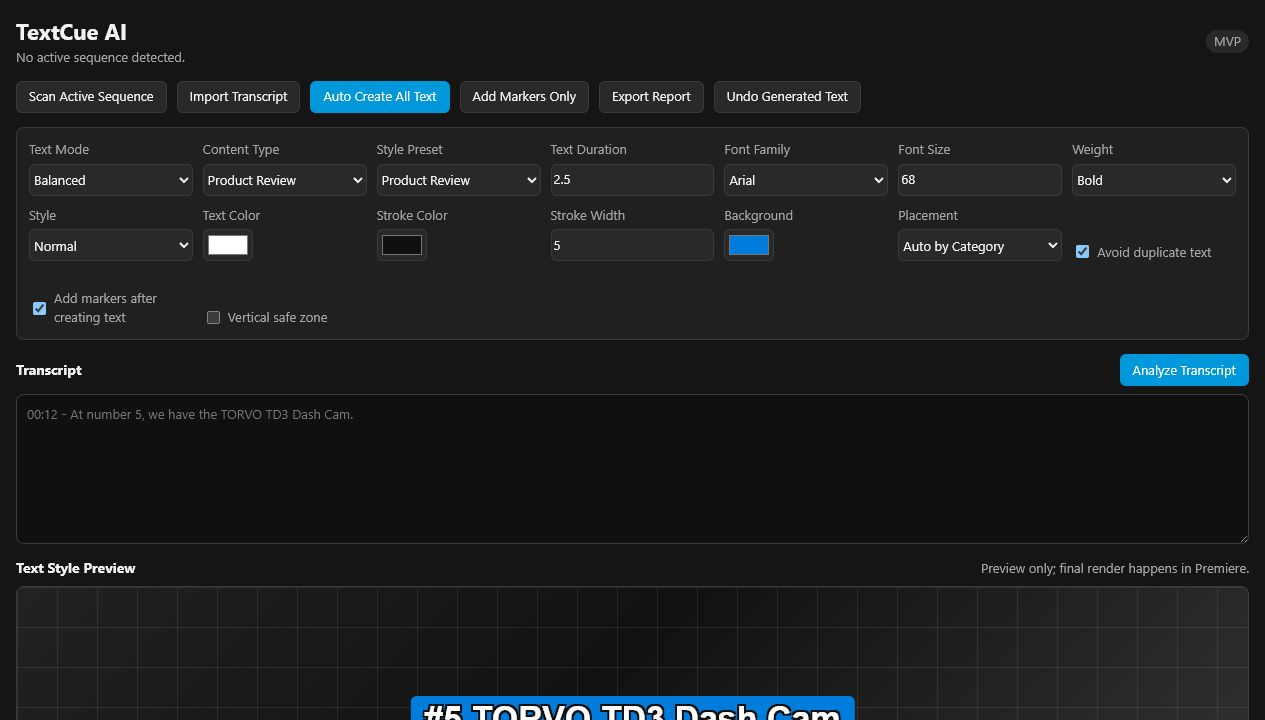
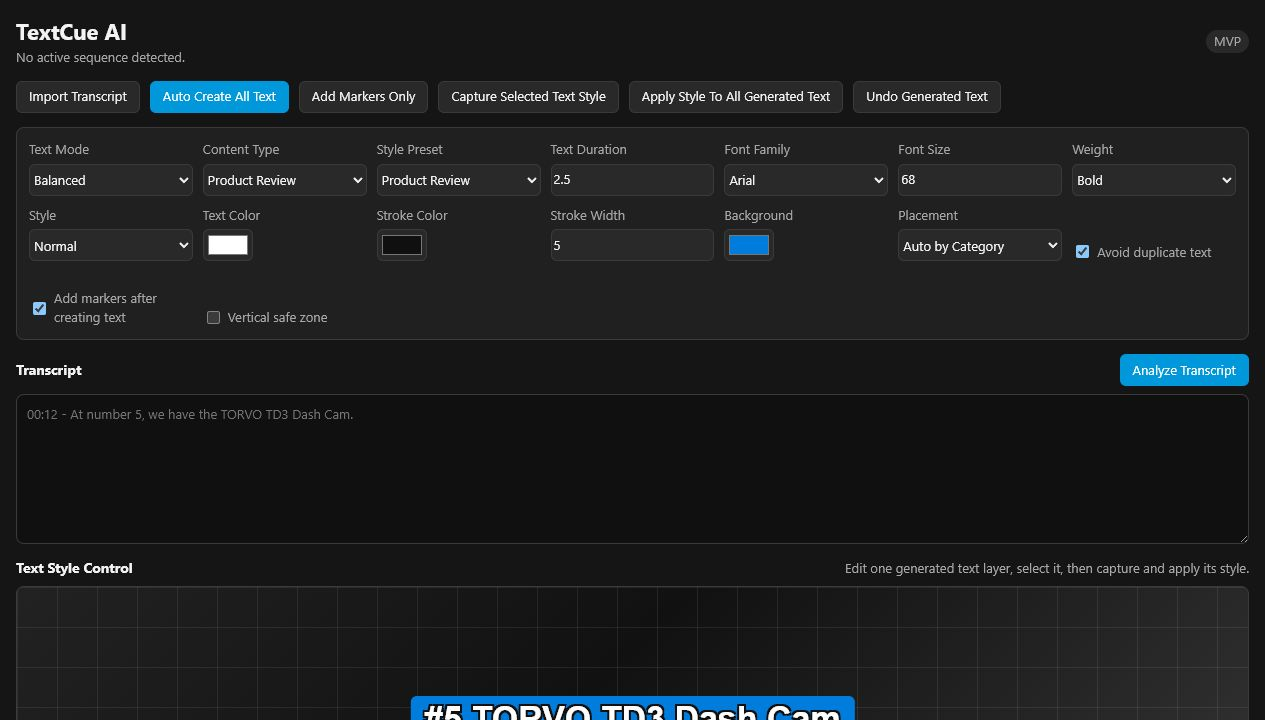
Replace scan and report with style sync actions

Changed region(s): [[0.0308, 0.0917, 0.8016, 0.1833], [0.6783, 0.7639, 0.9866, 0.7944], [0.0617, 0.7639, 0.1233, 0.7944]]

diff --git a/Source-Code/textcue-ai/src/main.js b/Source-Code/textcue-ai/src/main.js
@@ -1,6 +1,5 @@
 import { detectImportantPhrases } from "./detector.js";
 import { createPremiereAdapter } from "./premiere.js";
-import { buildReport, exportTextFile } from "./reportExporter.js";
 import { readSettingsFromDom } from "./settings.js";
 import { markCoveredCues } from "./timelineScanner.js";
 import { parseTranscript } from "./transcriptParser.js";
@@ -8,6 +7,7 @@ import { checkForUpdate } from "./updateChecker.js";
 
 let cues = [];
 let generatedTextLayerIds = [];
+let capturedTextStyle = null;
 let premiere = null;
 
 const elements = {};
@@ -52,11 +52,11 @@ function initializePanel() {
 
   for (const id of [
     "sequenceStatus",
-    "scanSequenceBtn",
     "importTranscriptBtn",
     "autoCreateBtn",
     "markersOnlyBtn",
-    "exportReportBtn",
+    "captureStyleBtn",
+    "applyStyleAllBtn",
     "undoBtn",
     "analyzeTranscriptBtn",
     "transcriptInput",
@@ -64,6 +64,7 @@ function initializePanel() {
     "resultsBody",
     "resultSummary",
     "messageBar",
+    "capturedStyleStatus",
     "updateBar",
     "updateMessage",
     "updateLink"
@@ -71,13 +72,13 @@ function initializePanel() {
     elements[id] = document.getElementById(id);
   }
 
-  elements.scanSequenceBtn.addEventListener("click", handleScanSequence);
   elements.importTranscriptBtn.addEventListener("click", () => elements.fileInput.click());
   elements.fileInput.addEventListener("change", handleTranscriptImport);
   elements.analyzeTranscriptBtn.addEventListener("click", handleAnalyzeTranscript);
   elements.autoCreateBtn.addEventListener("click", handleAutoCreateAll);
   elements.markersOnlyBtn.addEventListener("click", handleMarkersOnly);
-  elements.exportReportBtn.addEventListener("click", handleExportReport);
+  elements.captureStyleBtn.addEventListener("click", handleCaptureSelectedStyle);
+  elements.applyStyleAllBtn.addEventListener("click", handleApplyStyleToAllGeneratedText);
   elements.undoBtn.addEventListener("click", handleUndoGeneratedText);
   bindStylePreview();
 
@@ -172,26 +173,6 @@ async function refreshSequenceStatus() {
   elements.sequenceStatus.textContent = sequence ? `Active sequence: ${sequence.name || "Untitled"}` : "No active sequence detected.";
 }
 
-async function handleScanSequence() {
-  try {
-    const sequence = await premiere.getActiveSequence();
-    if (!sequence) {
-      setMessage("No active sequence is open. Open a sequence in Premiere Pro first.", "error");
-      await refreshSequenceStatus();
-      return;
-    }
-
-    await refreshSequenceStatus();
-    if (cues.length > 0) {
-      cues = await markCoveredCues(cues, premiere, readSettingsFromDom());
-      renderResults();
-    }
-    setMessage("Active sequence scanned.");
-  } catch (error) {
-    showError(error);
-  }
-}
-
 async function handleTranscriptImport(event) {
   const file = event.target.files?.[0];
   if (!file) {
@@ -255,12 +236,33 @@ async function handleMarkersOnly() {
   });
 }
 
-async function handleExportReport() {
+async function handleCaptureSelectedStyle() {
   try {
-    const sequence = await premiere.getActiveSequence();
-    const report = buildReport(cues, readSettingsFromDom(), sequence?.name || "Active Sequence");
-    await exportTextFile("textcue-ai-report.txt", report);
-    setMessage("Report exported.");
+    capturedTextStyle = await premiere.getSelectedTextLayerStyle();
+    applyCapturedStyleToControls(capturedTextStyle);
+    updateStylePreview();
+    elements.capturedStyleStatus.textContent = "Captured selected text style. You can now apply it to all generated text.";
+    setMessage("Captured style from selected text layer.");
+  } catch (error) {
+    showError(error);
+  }
+}
+
+async function handleApplyStyleToAllGeneratedText() {
+  const createdCueIds = cues.filter((cue) => cue.textLayerId && cue.status === "Created").map((cue) => cue.textLayerId);
+  if (createdCueIds.length === 0) {
+    setMessage("No generated text layers found in this session.", "error");
+    return;
+  }
+
+  const style = capturedTextStyle || buildStyleFromCurrentControls();
+  try {
+    let updated = 0;
+    for (const textLayerId of createdCueIds) {
+      await premiere.applyTextLayerStyle(textLayerId, style);
+      updated += 1;
+    }
+    setMessage(`Applied style to ${updated} generated text layer(s).`);
   } catch (error) {
     showError(error);
   }
@@ -315,10 +317,10 @@ async function createTextForCue(cue, settings) {
   }
 
   const textLayerId = await premiere.createTextLayer(cue, settings);
-    cue.textLayerId = textLayerId;
-    cue.status = "Created";
-    generatedTextLayerIds.push(textLayerId);
-    document.getElementById("textPreview").textContent = cue.suggestedText;
+  cue.textLayerId = textLayerId;
+  cue.status = "Created";
+  generatedTextLayerIds.push(textLayerId);
+  document.getElementById("textPreview").textContent = cue.suggestedText;
 
   if (settings.addMarkersAfterText) {
     cue.markerId = await premiere.addMarker(cue, "done");
@@ -405,6 +407,41 @@ function handleCueIgnore(cue) {
   cue.ignored = true;
   renderResults();
   setMessage(`Ignored cue: ${cue.suggestedText}`);
+}
+
+function buildStyleFromCurrentControls() {
+  const settings = readSettingsFromDom();
+  return {
+    fontFamily: settings.fontFamily,
+    fontSize: settings.fontSize,
+    fontWeight: settings.fontWeight,
+    fontStyle: settings.fontStyle,
+    fillColor: settings.fillColor,
+    strokeColor: settings.strokeColor,
+    strokeWidth: settings.strokeWidth,
+    backgroundColor: settings.backgroundColor,
+    placement: settings.placement
+  };
+}
+
+function applyCapturedStyleToControls(style) {
+  setControlValue("fontFamily", style.fontFamily);
+  setControlValue("fontSize", style.fontSize);
+  setControlValue("fontWeight", style.fontWeight);
+  setControlValue("fontStyle", style.fontStyle);
+  setControlValue("fillColor", style.fillColor);
+  setControlValue("strokeColor", style.strokeColor);
+  setControlValue("strokeWidth", style.strokeWidth);
+  setControlValue("backgroundColor", style.backgroundColor);
+  setControlValue("placement", style.placement);
+}
+
+function setControlValue(id, value) {
+  const control = document.getElementById(id);
+  if (!control || value === undefined || value === null || value === "") {
+    return;
+  }
+  control.value = String(value);
 }
 
 function countByStatus(items) {

diff --git a/Source-Code/textcue-ai/src/premiere.js b/Source-Code/textcue-ai/src/premiere.js
@@ -167,6 +167,48 @@ export function createPremiereAdapter() {
       }
       console.info(`Undo requested for generated text layer ${textLayerId}.`);
       return false;
+    },
+
+    async getSelectedTextLayerStyle() {
+      const sequence = await this.getActiveSequence();
+      if (!sequence) {
+        throw new Error("No active sequence is open.");
+      }
+
+      // TODO: Wire this to the installed Premiere Pro UXP API for reading the selected Graphic/Text component.
+      // Expected return shape:
+      // { fontFamily, fontSize, fontWeight, fontStyle, fillColor, strokeColor, strokeWidth, backgroundColor, placement }
+      if (sequence.getSelectedTextLayerStyle) {
+        return sequence.getSelectedTextLayerStyle();
+      }
+
+      if (sequence.getSelection) {
+        const selection = await sequence.getSelection();
+        const selectedItem = Array.isArray(selection) ? selection[0] : selection?.[0] || selection;
+        if (selectedItem?.getTextStyle) {
+          return selectedItem.getTextStyle();
+        }
+      }
+
+      throw new Error("Selected text style reading is not available in this Premiere UXP build. Wire the TODO in src/premiere.js.");
+    },
+
+    async applyTextLayerStyle(textLayerId, style) {
+      const sequence = await this.getActiveSequence();
+      if (!sequence) {
+        throw new Error("No active sequence is open.");
+      }
+
+      // TODO: Wire this to the installed Premiere Pro UXP API for applying style to generated Graphic/Text layers.
+      if (sequence.applyTextLayerStyle) {
+        return sequence.applyTextLayerStyle(textLayerId, style);
+      }
+      if (sequence.updateTextLayerStyle) {
+        return sequence.updateTextLayerStyle(textLayerId, style);
+      }
+
+      console.info("Apply style requested:", { textLayerId, style });
+      throw new Error("Applying style to generated text layers is not available in this Premiere UXP build. Wire the TODO in src/premiere.js.");
     }
   };
 }

diff --git a/Source-Code/textcue-ai/index.html b/Source-Code/textcue-ai/index.html
@@ -11,17 +11,17 @@
       <header class="panel-header">
         <div>
           <h1>TextCue AI</h1>
-          <p id="sequenceStatus">Open a Premiere sequence, then scan.</p>
+          <p id="sequenceStatus">Open a Premiere sequence, then import a transcript.</p>
         </div>
         <span class="badge">MVP</span>
       </header>
 
       <section class="toolbar" aria-label="Main actions">
-        <button id="scanSequenceBtn">Scan Active Sequence</button>
         <button id="importTranscriptBtn">Import Transcript</button>
         <button id="autoCreateBtn" class="primary">Auto Create All Text</button>
         <button id="markersOnlyBtn">Add Markers Only</button>
-        <button id="exportReportBtn">Export Report</button>
+        <button id="captureStyleBtn">Capture Selected Text Style</button>
+        <button id="applyStyleAllBtn">Apply Style To All Generated Text</button>
         <button id="undoBtn">Undo Generated Text</button>
       </section>
 
@@ -142,8 +142,8 @@
 
       <section class="style-preview-section">
         <div class="section-heading">
-          <h2>Text Style Preview</h2>
-          <span>Preview only; final render happens in Premiere.</span>
+          <h2>Text Style Control</h2>
+          <span id="capturedStyleStatus">Edit one generated text layer, select it, then capture and apply its style.</span>
         </div>
         <div id="textPreviewStage" class="preview-stage">
           <div id="textPreview" class="text-preview">#5 TORVO TD3 Dash Cam</div>

diff --git a/Source-Code/textcue-ai/src/updateChecker.js b/Source-Code/textcue-ai/src/updateChecker.js
@@ -1,4 +1,4 @@
-export const CURRENT_VERSION = "0.1.3";
+export const CURRENT_VERSION = "0.1.4";
 export const LATEST_RELEASE_API = "https://api.github.com/repos/tonuafsar-commits/textcue-ai-premiere-pro/releases/latest";
 export const STABLE_DOWNLOAD_URL = "https://github.com/tonuafsar-commits/textcue-ai-premiere-pro/releases/latest/download/TextCue-AI-All-In-One.zip";
 

diff --git a/Source-Code/textcue-ai/README.md b/Source-Code/textcue-ai/README.md
@@ -1,6 +1,6 @@
 # TextCue AI
 
-TextCue AI is a Premiere Pro UXP panel MVP for finding spoken moments that probably need on-screen text. It parses a timestamped transcript, detects cue-worthy lines, checks the active timeline for existing text-like clips, and lets an editor create text, add review markers, ignore cues, undo generated text from the current session, and export a TXT report.
+TextCue AI is a Premiere Pro UXP panel MVP for finding spoken moments that probably need on-screen text. It parses a timestamped transcript, detects cue-worthy lines, checks the active timeline for existing text-like clips, and lets an editor create text, add review markers, ignore cues, undo generated text from the current session, and apply one captured text style to every generated text layer.
 
 Stable latest all-in-one download:
 
@@ -58,7 +58,8 @@ If the manifest changes, unload and reload the plugin in UXP Developer Tool.
 8. Use global actions when ready:
    - **Auto Create All Text** creates all pending/review cues.
    - **Add Markers Only** adds review markers without creating text.
-   - **Export Report** saves a TXT report.
+   - **Capture Selected Text Style** reads the style from one selected generated text layer.
+   - **Apply Style To All Generated Text** applies that captured style to every text layer generated in the current session.
    - **Undo Generated Text** attempts to remove text created in the current panel session.
 
 ## Detection Modes

diff --git a/Source-Code/textcue-ai/FUNCTIONAL_STATUS.md b/Source-Code/textcue-ai/FUNCTIONAL_STATUS.md
@@ -12,7 +12,7 @@ TextCue AI is packaged as a Premiere Pro UXP extension MVP.
 - Text Mode, Content Type, Style Preset, duplicate-avoidance, marker-after-text, duration, and vertical safe-zone settings.
 - Result list with timestamp, spoken line, suggested text, category, confidence, status, edit field, and actions.
 - Session tracking for generated text IDs.
-- TXT report export.
+- Captured-style workflow for applying one edited text layer style to all generated text layers in the current session.
 - Premiere adapter that checks for active sequence and isolates host-specific timeline actions.
 - In-panel GitHub release update check for direct-distribution users.
 